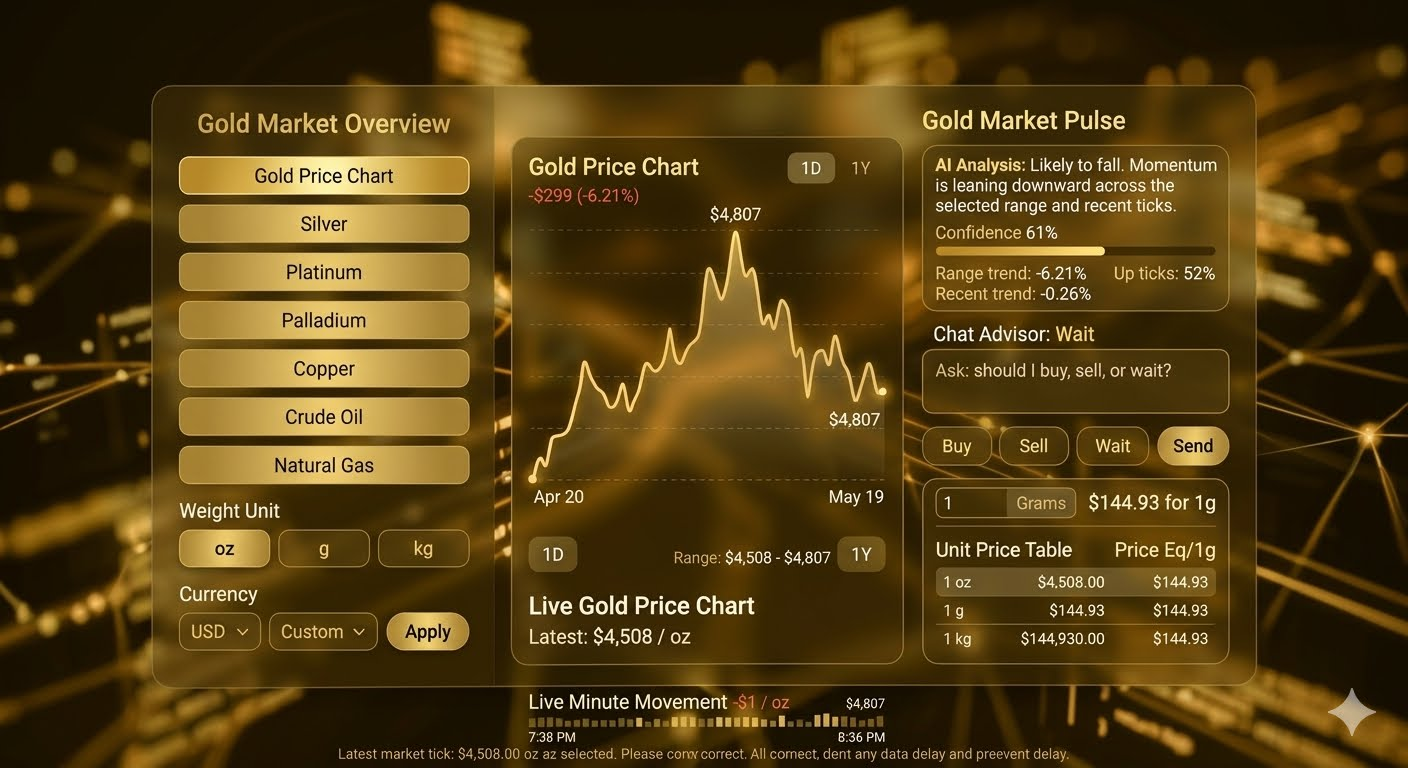
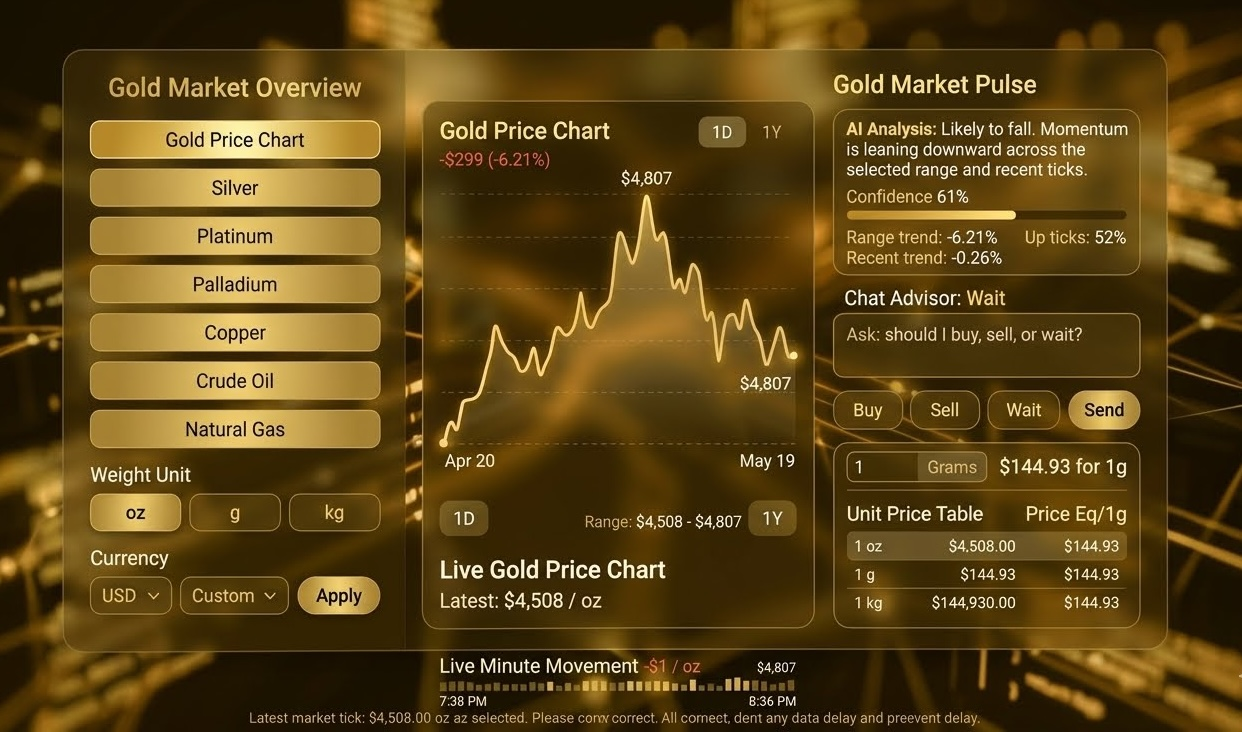
mj

diff --git a/public/index.html b/public/index.html
@@ -180,7 +180,7 @@
 											</a>
 										</li>
 										<li>
-											<a target="_blank" href="https://lb.linkedin.com/in/mostafa-jarjour-4277a025a">
+											<a target="_blank" href="https://lb.linkedin.com/in/mostafa-jarjour-30032001mj">
 												<i class="fa fa-linkedin" aria-hidden="true"></i>
 											</a>
 										</li>
@@ -705,7 +705,7 @@
 										</div>
 										<div class="single-contact-add-info">
 											<h3>LinkedIn</h3>
-											<p><a target="_blank" href="https://lb.linkedin.com/in/mostafa-jarjour-4277a025a" style="color:inherit;">mostafa-jarjour-4277a025a</a></p>
+											<p><a target="_blank" href="https://lb.linkedin.com/in/mostafa-jarjour-30032001mj" style="color:inherit;">mostafa-jarjour-30032001mj</a></p>
 										</div>
 									</div>
 								</div>
@@ -713,7 +713,7 @@
 									<ul>
 										<li><a target="_blank" href="https://www.instagram.com/mostafa.j303/"><i class="fa fa-instagram"></i></a></li>
 										<li><a target="_blank" href="https://api.whatsapp.com/send/?phone=[phone redacted]&text&type=phone_number&app_absent=0"><i class="fa fa-whatsapp"></i></a></li>
-										<li><a target="_blank" href="https://www.linkedin.com/in/mostafa-jarjour-4255392a5/"><i class="fa fa-linkedin"></i></a></li>
+										<li><a target="_blank" href="https://www.linkedin.com/in/mostafa-jarjour-30032001mj/"><i class="fa fa-linkedin"></i></a></li>
 										<li><a target="_blank" href="https://www.facebook.com/mostafa.jarjour.5"><i class="fa fa-facebook"></i></a></li>
 									</ul>
 								</div>